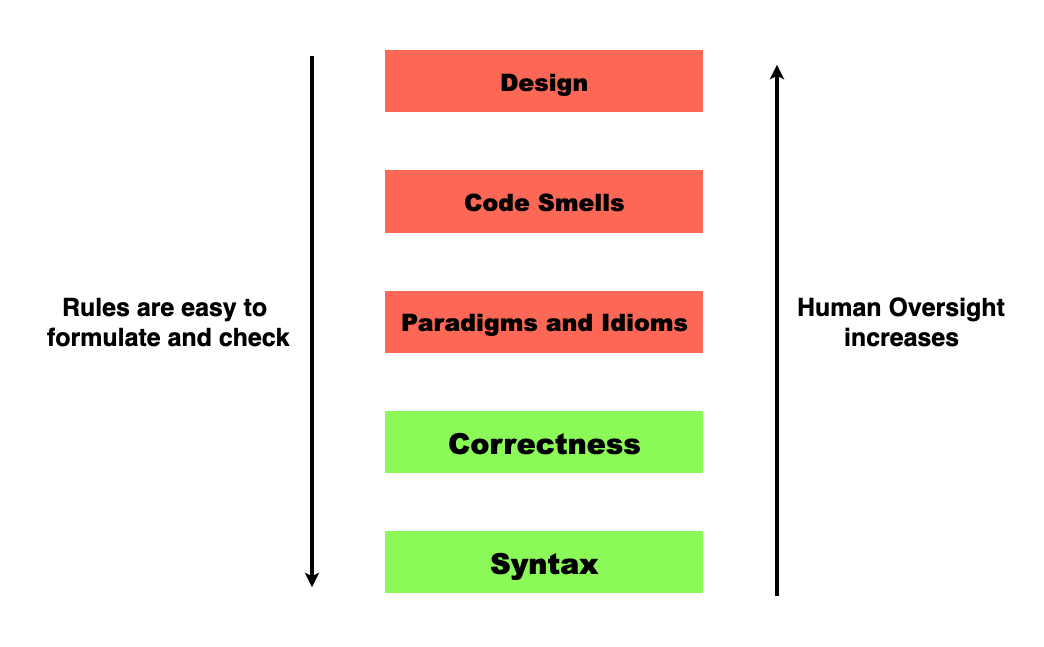
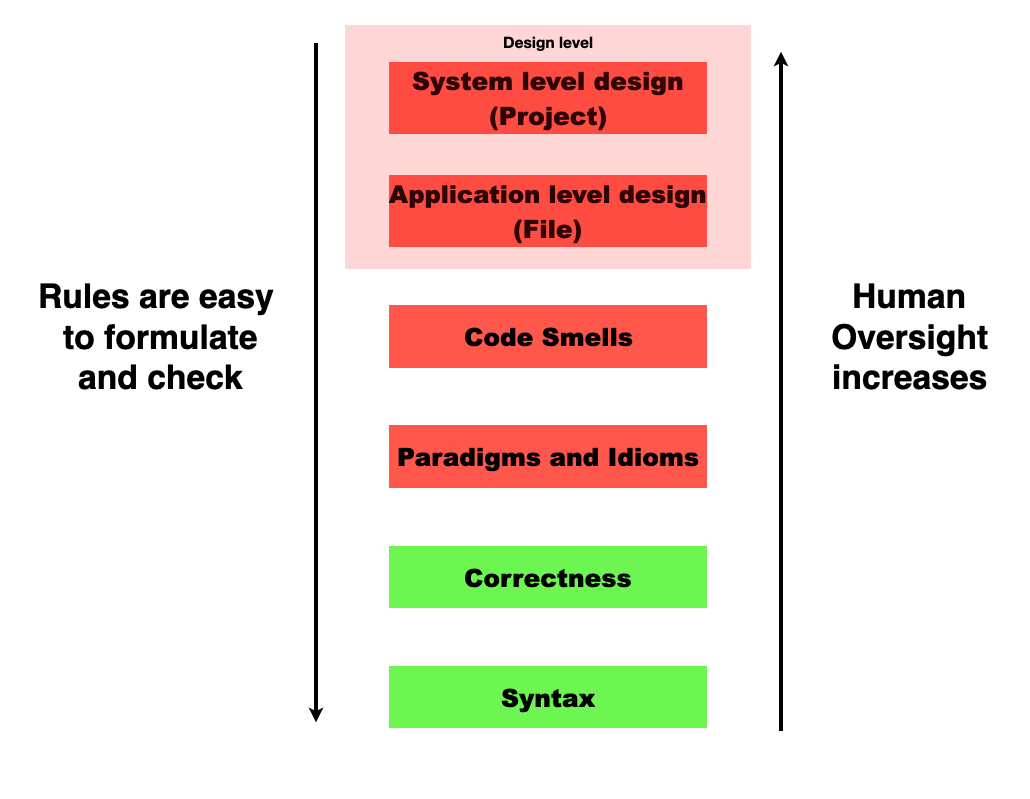
c4---v1.1---

Changed region(s): [[0.0311, 0.0309, 0.9631, 0.8964], [0.3417, 0.8037, 0.6835, 0.9274]]

diff --git a/chapters/4/chapter_framework.tex b/chapters/4/chapter_framework.tex
@@ -2,31 +2,37 @@
 \label{chapter:framework}
 
 \section{Introduction}
-In Chapters~\ref{chapter:idioms} and \ref{chapter:smells}, we identified that Copilot does not perform well in detecting and suggesting language idioms and best practices, 
-the scope of capability for \cct{} like Copilot is uncertain. In this chapter, we try to address \textbf{RQ-1} (What are the current boundaries of code completion tools) with a taxonomy of 5 software abstraction levels to help access the current capabilities of Copilot. 
+In Chapter~\ref{chapter:methodology}, we identified that Copilot does not perform well in detecting and suggesting language idioms and best practices.
+The scope of capability for \cct{} like Copilot is uncertain. 
+In this chapter, we try to create a metric for answering \textbf{RQ-1} (What are the current boundaries of code completion tools) with a taxonomy of six software abstraction levels to help access the current capabilities of \cct{} such as Copilot. 
 
 We explain each software abstraction level in the taxonomy and the capabilities required by \cct{} to satisfy the software abstraction level. 
-We try to delineate where current \cct{} are currently best able to perform, and where more complex software engineering tasks overwhelm them. We use a sorting routine as an example scenario to show how a \cct{} suggestion looks like at every level of abstraction in our taxonomy.
+We try to delineate where current \cct{} such as Copilot are currently best able to perform, and where more complex software engineering tasks overwhelm them. 
+Additionally, We use a sorting routine as an example scenario to show how a \cct{} code suggestion looks like at every level of abstraction in our taxonomy.
 
 \subsection{Motivation}
-To center our analysis on creating a software abstraction hierarchy, we leverage an analogous concept in the more developed (but still nascent) field of autonomous driving. 
-Koopman has adapted the SAE Autonomous Driving safety levels~\cite{sae} to those shown in figure~\ref{fig:koopman_pyramid}. 
-The pyramid concept is derived from that of Maslow~\cite{Maslow1943}, such that addressing aspects on the top of the pyramid first require the satisfaction of aspects below. 
-For example, before being able to think about system safety (such as what to do in morally ambiguous scenarios), the vehicle must first be able to navigate its environment reliably (``Basic Driving Functionality'').
-
-We think that a similar hierarchy exists in \AISE{}. Before worrying about software architecture issues, that is, satisfying system quality attributes such as performance, \AISE{} tools need to be able to exhibit ``basic programming functionality''. This basic functionality is where most research effort is currently concentrated, such as program synthesis, \cct{}, and automated bug repair.
+To center our analysis on creating a software abstraction hierarchy to create a metric for answering \textbf{RQ-1} (What are the current boundaries of code completion tools), 
+we leverage an analogous concept in the more developed (but still nascent) field of autonomous driving. 
+Koopman has adapted the SAE Autonomous Driving safety levels~\cite{sae} to seven levels of autonomous vehicle safety hierarchy of needs shown in figure~\ref{fig:koopman_pyramid}. 
 
 \begin{figure}[hbt!]
     \centering
-    \includegraphics[width=.8\linewidth]{Figures/koopman_pyramid.png}
+    \includegraphics[width=\linewidth]{Figures/koopman_pyramid.png}
     \caption{Koopman's Autonomous Vehicle Safety Hierarchy of Needs~\cite{koopman}. SOTIF = safety of the intended function.}
     \label{fig:koopman_pyramid}
 \end{figure}
+
+The pyramid concept is derived from that of Maslow~\cite{Maslow1943}, such that addressing aspects on the top of the pyramid first require the satisfaction of aspects below. 
+For example, before being able to think about system safety (such as what to do in morally ambiguous scenarios), the vehicle must first be able to navigate its environment reliably (``Basic Driving Functionality'').
+
+We think that a similar hierarchy exists in \AISE{}. Before worrying about software architecture issues, that is, satisfying system quality attributes such as performance and following idiomatic approaches, \AISE{} tools need to be able to exhibit ``basic programming functionality''. This basic functionality is where most research effort is currently concentrated, such as program synthesis, \cct{}, and automated bug repair.
+
 
 \input{chapters/4/taxonomy}
 \input{chapters/4/syntax}
 \input{chapters/4/correctness}
 \input{chapters/4/idioms}
 \input{chapters/4/smells}
-\input{chapters/4/design}
+\input{chapters/4/low_design}
+\input{chapters/4/high_design}
 \input{chapters/4/summary}

diff --git a/chapters/4/low_design.tex b/chapters/4/low_design.tex
@@ -1,0 +1,48 @@
+\subsection{Design level}
+Software design is the highest level of abstraction in our taxonomy. The goal of this level is to make \cct{} support the user in every software development process and suggest improvements.
+In order to simplify the taxonomy of overall design processes in software development, we divided it into two sub categories: Application level design and System level design. 
+\cct{} at Application level design requires more user involvement in making design choices at the file level. Whereas, in system level design, \cct{} are more autonomous and require minimal input from the user in making design choices.
+
+\subsubsection{Application level design}
+\label{low_design}
+Application level design is the first half of design level of software abstraction in our taxonomy.
+This level requires the suggested code to be free of all known vulnerabilities and include test cases and continuous integration methods when applicable.
+Code suggestions should also cover all the functional requirements of a given programming task.
+
+\cct{} at this level should be able to pick and suggest best applicable algorithm for a given coding scenario and be capable of following user specified coding style guidelines.
+For example, considering the task of sorting operation on a list of numbers. To satisfy this level of abstraction, \cct{} should suggest a syntactically correct list sorting code, using an algorithm which gives the best performance for that particular input scenario like suggesting quick sort algorithm~(avg time complexity = nlogn) instead of bubble sort algorithm~(avg time complexity = n\textsuperscript{2}).
+
+The goal of this level in the taxonomy is for a \cct{} to be able to suggest appropriate design choices at file level, considering the input from the user like coding style guidelines and help the user make design choices which satisfy all the functional requirements of the given programming task.
+
+The capabilities required by a \cct{} to satisfy this level of abstraction are as follows
+\begin{enumerate}
+    \item Picking and suggesting the best applicable algorithm for a given scenario.
+    \item Identify file level concerns in code files.
+    \item Code suggestions should be free from all recognised vulnerabilities and warn user if a vulnerability is found.
+    \item Code suggestions should cover all the functional requirements of the given programming task.
+    \item \cct{} should be able to suggest code with appropriate tests and Continuous Integration~(CI) when applicable.
+    \item Code suggestions should follow user specified coding style guidelines.
+    \item Satisfy requirements of all previous levels of abstractions.
+\end{enumerate}
+
+% \begin{tcolorbox}[title=Code smells level suggestion for sort routine,boxsep=.15mm]
+%     %https://tex.stackexchange.com/questions/337909/tcolorbox-tcbline-style
+% \textbf{Human Input:}
+% \begin{lstlisting}[language={Python}]
+% # sorting a list
+% arr = [2,4,1,3,7,5]
+% \end{lstlisting}
+% \tcbline
+% \textbf{\cct{} suggestion:}
+% \begin{lstlisting}[language={Python}, morekeywords={False, True}]
+% swapped = False
+% for i in range(len(arr)-1, 0, -1):
+% 	for j in range(n):
+% 		if arr[j] > arr[j+1]:
+% 		    swapped = True
+% 			arr[j], arr[j+1] = arr[j+1], arr[j]
+% 	if not swapped:
+% 	    break
+% print(arr)
+% \end{lstlisting}
+% \end{tcolorbox}

diff --git a/chapters/4/idioms.tex b/chapters/4/idioms.tex
@@ -1,21 +1,25 @@
 \subsection{Paradigms and Idioms}
-The paradigms and idioms is the mid level of software abstraction in our taxonomy. This level requires the suggested code satisfy all the previous levels of abstractions and use common paradigms and language idioms in its suggestions, these include common practices of performing a task in a programming language. 
-For example, considering the task of sorting operation on a list of numbers. To satisfy this level of abstraction, \cct{} should suggest a syntactically correct list sorting code, using idioms like best way to swap items in a list~(line 8 in fig~\ref{fig:idioms}) instead of using another temp variable~(shown in fig~\ref{fig:correctness}). 
+The paradigms and idioms is the third level of software abstraction in our taxonomy. 
+This level requires the suggested code satisfy all the previous levels of abstractions and use common paradigms and language idioms in its code suggestions, these include common practices of performing a programming task. 
 
-The main goal of this level in the taxonomy is for \cct{} to be able to detect and use the commonly used practices occur in public code in its code suggestions to a problem.
-Figure~\ref{fig:idioms} shows the example and the suggestions from \cct{} at this abstraction level.
+For example, considering the task of sorting operation on a list of numbers. 
+To satisfy this level of abstraction, \cct{} should suggest a syntactically correct list sorting code, using idiomatic ways in its code suggestions, like the Pythonic way of swapping items in a list~(line 5 in figure~\ref{fig:idioms}), As opposed to suggesting non-idiomatic approaches like creating another temporary variable to swap items in a list shown in correctness level~(figure~\ref{fig:correctness}).
+
+Figure~\ref{fig:idioms} shows the sorting example and the Python code suggestions from \cct{} at this abstraction level.
 
 \begin{figure}[hbt!]
     \centering
     \includegraphics[width=\linewidth]{Figures/idioms.png}
-    \caption{\cct{} paradigms and idioms level suggestions}
+    \caption{Code suggestion of \cct{} at paradigms and idioms level}
     \label{fig:idioms}
 \end{figure}
 
-The capabilities required by \cct{} to satisfy this level of abstraction are as follows:
+The goal of this software abstraction level in the taxonomy is for \cct{} to be able to detect and use commonly known idiomatic approaches and paradigms that occur in public code in its code suggestions for suggesting code to solve a programming task.
+
+The capabilities required by \cct{} to satisfy paradigms and idioms level of software abstraction are as follows:
 \begin{enumerate}
-    \item Identify common patterns like paradigms and language idioms in public code~(training data).
-    \item Use paradigms and language idioms in suggesting solutions for a problem.
+    \item Identify common patterns like paradigms and language idioms in public code repositories~(training data).
+    \item Use paradigms and language idioms in suggesting solutions for a programming task.
     \item Satisfy requirements of all the levels below paradigms and idioms in our taxonomy.
 \end{enumerate}
 

diff --git a/chapters/4/smells.tex b/chapters/4/smells.tex
@@ -1,23 +1,25 @@
 \subsection{Code Smells}
-The code smells level is the penultimate level of software abstractions in our taxonomy. 
-This level requires the suggested code satisfy all the previous levels of abstractions and avoid common code smells in its suggestions, these include common bad practices found in public code. This software abstraction level is also requires \cct{} to suggest the most optimized version of all its possible code suggestions.
+The code smells level is the next level of software abstractions after paradigms and idioms level in our taxonomy. 
+Code smells level requires the suggested code satisfy all the previous levels of abstractions and avoid common code smells in its suggestions, these include common bad practices found in public code. 
 
-For example, considering the task of performing a sorting operation on a list of numbers. To satisfy this level of abstraction, \cct{} should suggest a syntactically correct list sorting code, using common patterns like idioms but not including common code smells that occur in public code like resolving edge cases. 
+This software abstraction level is also requires \cct{} to suggest the most optimized version of all of the code suggestions \cct{} could generate for the programming task.
+
+For example, considering the task of sorting operation on a list of numbers. To satisfy this level of abstraction, \cct{} should suggest a syntactically correct list sorting code, using common patterns like idioms and not including common code smells that occur in public code like edge case scenarios. 
 Figure~\ref{fig:smells} shows the example and the suggestion from \cct{} at this abstraction level.
 
 \begin{figure}[hbt!]
     \centering
     \includegraphics[width=\linewidth]{Figures/smells.png}
-    \caption{\cct{} code smells level suggestions}
+    \caption{Code suggestion of \cct{} at code smells level}
     \label{fig:smells}
 \end{figure}
 
-The main goals of this level of software abstraction in our taxonomy is for \cct{} to be able to detect and avoid bad practices such as code smells that commonly occur in public code in its code suggestions to a problem and to suggest the most optimized version as its first suggestion to a programming task.
+The goal of this level of software abstraction in our taxonomy is for \cct{} to be able to detect and avoid bad practices such as code smells that commonly occur in public code in its code suggestions to a problem and to suggest the most optimized version as its first suggestion to solve a programming task.
 
 The capabilities required by \cct{} to satisfy this level of abstraction are as follows:
 \begin{enumerate}
     \item Identify common bad practices such as code smells that occur in public code~(training data).
-    \item Suggest solutions that does not have any code smells.
+    \item Suggest solutions that does not have any code smells and unresolved edge cases.
     \item Suggested code should the most optimized version of all the possible suggestions \cct{} could create for a given problem.
     \item Satisfy requirements of all the levels below code smells in our taxonomy.
 \end{enumerate}

diff --git a/chapters/4/correctness.tex b/chapters/4/correctness.tex
@@ -1,14 +1,15 @@
 \subsection{Correctness}
 \label{correctness}
-In this software abstraction level in our taxonomy, the suggested code by \cct{} should not only be syntactically correct but also solves the task. 
-This level does not require \cct{} to suggest the optimal solution for the task but to be able to suggest a solution to a task.
-For example, consider a task of perform a sorting operation on a list of numbers. To satisfy this level of abstraction, \cct{} should suggest a syntactically correct list sorting code, which is not required to to be the best algorithm to be the most efficient way.
-Figure~\ref{fig:correctness} shows the example and the suggestions from \cct{} at this abstraction level.
+Correctness is the second level of software abstraction in our taxonomy. In this level, the \cct{} should suggest code that is not only syntactically correct but also solves the programming task. 
+This level does not require \cct{} to suggest the optimal solution possible for the programming task but to be able to suggest a solution to the programming task.
+
+For example, consider the programming task of performing a sorting operation on a list of numbers. To satisfy this level of abstraction, \cct{} should suggest a syntactically correct list sorting code, which is not required to to be the most efficient way of sorting a list.
+Figure~\ref{fig:correctness} shows the list sorting example and the Python code suggestion from \cct{} at this abstraction level, which performs the sorting operation.
 
 \begin{figure}[hbt!]
     \centering
     \includegraphics[width=.9\linewidth]{Figures/correctness.png}
-    \caption{\cct{} correctness level suggestions}
+    \caption{Code suggestion of \cct{} at correctness level}
     \label{fig:correctness}
 \end{figure}
 
@@ -16,7 +17,8 @@ The goal of this software abstraction level in our taxonomy is for a \cct{} to b
 The capabilities required by \cct{} to satisfy this level of abstraction are as follows:
 
 \begin{enumerate}
-    \item Suggest a solution for a given programming task which may not be the optimal solution for that problem.
+    \item Suggest a solution for a given programming task which may not be the optimal solution for that programming task.
+    \item The solution suggested is not required to cover all the edge cases for that programming task.
     \item Satisfy requirements of all the levels below correctness in our taxonomy.
 \end{enumerate}
 

diff --git a/chapters/4/high_design.tex b/chapters/4/high_design.tex
@@ -1,0 +1,23 @@
+\subsubsection{System level design}
+\label{high_design}
+System level design is the second half of the design level in our taxonomy. This level is the highest abstraction level with highest human oversight and hardest to define rules.
+\cct{} at this level are capable of suggesting design decisions in project level like suggesting design patterns and architectural tactics with minimal input from the user.
+
+This level requires the suggested code suggest rational design practices in its code suggestions for a problem and satisfy all the previous levels of abstractions. Design practices are dependent on many factors like requirements and technical debt, \cct{} should be capable of considering all the relevant factors before suggesting a design practice and provide the reasoning for each choice to the user.
+
+The main goal of this level in the taxonomy is for a \cct{} to help the user in every part of software development process with minimal input from the user.
+
+The capabilities required by a \cct{} to satisfy this level of abstraction are as follows
+\begin{enumerate}
+    \item Identify system level concerns in code files.
+    \item Suggest design patterns and architectural tactics when prompted.
+    \item Code suggestions should cover all the non-functional requirements of the given project.
+    \item \cct{} should be able to identify coding style followed and adapt its code suggestions.
+    \item \cct{} should be able to make design decisions based on requirements and inform user about those decisions.
+    \item Satisfy requirements of all previous levels of abstractions.
+\end{enumerate}
+
+To make a \cct{} suggest design decisions is a very challenging task. 
+As software design is very subjective and Software design concerns are still challenging to comprehend. 
+This is because software design is one of the least concrete parts in the software development lifecycle, especially when compared to testing, implementation, and deployment~\cite{sedesign}. 
+Software design is typically carried out heuristically by drawing on the knowledge of the design team, the project context (such as architecturally significant needs), and a constantly evolving set of patterns and styles from the literature. We discuss more on this challenges in Chapter~\ref{chapter:discussion}.

diff --git a/chapters/4/taxonomy.tex b/chapters/4/taxonomy.tex
@@ -5,7 +5,7 @@ Software architecture analysis and design is the highest abstraction level.
 As we ascend the levels, just as with Koopman's pyramid in figure \ref{fig:koopman_pyramid}, 
 software challenges rely more on human input and become more difficult to automate (e.g., crafting design rules vs following syntax rules).
 
-Figure~\ref{fig:taxonomy} shows the taxonomy of autonomy levels for \cct{}.  The more abstract top levels depend on resolution of lower ones. As we move up the hierarchy, we require more human oversight of the AI; as we move down the hierarchy, rules for detecting problems are easier to formulate. Green levels are areas where \cct{} like Copilot works reasonably well, while red levels are challenging for Copilot as shown in chapters~\ref{chapter:idioms} and~\ref{chapter:smells}.
+Figure~\ref{fig:taxonomy} shows the taxonomy of autonomy levels for \cct{}. The more abstract top levels depend on resolution of lower ones. As we move up the hierarchy, we require more human oversight of the AI; as we move down the hierarchy, rules for detecting problems are easier to formulate. Green levels are areas where \cct{} like Copilot works reasonably well, while red levels are challenging for Copilot.
 
 \begin{figure}[hbt!]
     \centering
@@ -13,6 +13,10 @@ Figure~\ref{fig:taxonomy} shows the taxonomy of autonomy levels for \cct{}.  The
     \caption{Hierarchy of software abstractions.}
     \label{fig:taxonomy}
 \end{figure}
+
+Based on our tests with Copilot shown in chapter~\ref{chapter:methodology}, Copilot was able to generate syntactically correct code that solves the given programming task in the coding scenario~(shown in ~\repl{}).
+This functionality covers the syntax and the correctness level in our software abstraction hierarchy.
+As a result, Copilot stands at correctness level of our taxonomy. 
 
 The challenges further up the hierarchy are nonetheless more important for software quality attributes (QA)~\cite{Ernst2017} and for a well-engineered software system.
 For example, an automated solution suggested by \cct{} to the top level of the taxonomy would be able to follow heuristics to engineer a well designed software system, one which would be easy to modify and scale to sudden changes in use.

diff --git a/chapters/4/summary.tex b/chapters/4/summary.tex
@@ -1,5 +1,5 @@
 \section{Chapter Summary}
-In this chapter, we introduced the taxonomy of software abstraction hierarchy. We explain each software abstraction level in the taxonomy and the capabilities required by AI-supported code completion tools to satisfy the software abstraction level.
-We addressed \textbf{RQ-1} (What are the current boundaries of code completion tools) using the taxonomy and the results shown in chapters~\ref{chapter:idioms} and~\ref{chapter:smells}. We show that Copilot only satisfies syntax and correctness levels in our taxonomy. 
+In this chapter, we introduced the taxonomy of software abstraction hierarchy. We explain each software abstraction level in the taxonomy and the capabilities required by AI-supported code completion tools to satisfy each of the software abstraction level.
+We tried to create a metric for all \cct{} to help answer \textbf{RQ-1} (What are the current boundaries of code completion tools) using the taxonomy derived from the results shown in chapter~\ref{chapter:methodology}, which showed that Copilot only satisfies syntax and correctness levels in our taxonomy.
 
-In the next chapter~(chapter~\ref{chapter:discussion}), \textbf{RQ-2} (Given the current boundary, how far is it from suggesting design decisions?) with a discussion on the significant gap and level of complexities in creating a between code smells level and the design level in our taxonomy.
+In the next chapter~(chapter~\ref{chapter:discussion}), we try to address \textbf{RQ-2} (Given the current boundary, how far is it from suggesting design decisions?) with a discussion on the significant gap and level of complexities and challenges involved in creating \cct{} at design level compared to \cct{} at code smells level in our taxonomy.

diff --git a/chapters/2/summary.tex b/chapters/2/summary.tex
@@ -6,5 +6,5 @@ Furthermore, we discussed some of the related works on Copilot about its usage~\
 
 In the next chapters, we discuss the problems with using \cct{} like Copilot that are harder to fix and straight-forward corrections may not exist, like language idioms and code smells. 
 We try to address \textbf{RQ-1} (What are the current boundaries of code completion tools) using the methodology and present our results~(Chapter~\ref{chapter:methodology}).
-We then introduce a taxonomy of software abstraction hierarchy to help with finding the current boundaries of \cct{} like Copilot (Chapter~\ref{chapter:framework}). To address \textbf{RQ-2} (Given the current boundary, how far is it from suggesting design decisions?), we discuss the complex nature of design decisions, and the challenges with trying to use \cct{} to make design decisions.
+We then introduce a taxonomy of software abstraction hierarchy to help with finding the current boundaries of \cct{} like Copilot (Chapter~\ref{chapter:framework}). We address \textbf{RQ-2} (Given the current boundary, how far is it from suggesting design decisions?) with a discussion of the complex nature of design decisions, and the challenges with trying to use \cct{} to make design decisions.
 Finally, we discuss some of the practical implications, limitations of our findings and also provide some future directions to help further research in \cct{} (Chapter~\ref{chapter:discussion}).

diff --git a/chapters/4/syntax.tex b/chapters/4/syntax.tex
@@ -1,13 +1,15 @@
 \subsection{Syntax}
 \label{syntax}
 The syntax level is the lowest abstraction level in our taxonomy. This level includes the most basic programming functionality like syntax and code compilations. This level does not require the \cct{} suggested code to successfully perform the task but to suggest code without any obvious errors like syntax errors.
-For example, consider a task of perform a sorting operation on a list of numbers. To satisfy this level of abstraction, \cct{} should suggest code that is syntactically correct without any compilation errors and the code is not required to perform the sorting operation correctly. 
-Figure~\ref{fig:syntax} shows the example and syntax suggestions from \cct{} at this abstraction level.
+
+For example, consider a programming task of performing a sorting operation on a list of numbers. 
+To satisfy this level of abstraction, \cct{} should suggest code that is syntactically correct without any compilation errors and the code is not required to perform the sorting operation correctly. 
+Figure~\ref{fig:syntax} shows the sorting example and Python syntax suggestions from \cct{} at this abstraction level.
 
 \begin{figure}[hbt!]
     \centering
     \includegraphics[width=\linewidth]{Figures/syntax.png}
-    \caption{\cct{} syntax level suggestions}
+    \caption{code suggestion of \cct{} at syntax level}
     \label{fig:syntax}
 \end{figure}
 

diff --git a/chapters/2/copilot.tex b/chapters/2/copilot.tex
@@ -29,7 +29,7 @@ Although a Copilot suggestion can be triggered by adding a comment in natural la
 Vaithilingam et al.~\cite{Vaithilingam2022} conducted an exploratory study of how developers use Copilot, finding that Copilot did not solve tasks more quickly, but did save time in searching for solutions. 
 More importantly, Copilot seemed to solve the writer's block problem of not knowing how to get started. This notion of seeding an initial, if incorrect, solution is often how design proceeds in software. 
 
-Recent work shows initial investigations on how large language models for code can add architecture tactics by using program synthesis~\cite{Shokri2021} and structure learning~\cite{Karmakar2021}.
+Recent work shows initial investigations on how large language models for code can add architecture tactics by using program synthesis~\cite{Shokri2021, jigsaw} and structure learning~\cite{Karmakar2021}.
 This thesis complements these earlier approaches by focusing on moving beyond code completion, where most research effort is currently concentrated.
 In order to provide deeper insights into the overall effectiveness of the instrument, it is crucial to evaluate the quality of Copilot's suggestions and understand its limitations.
 

diff --git a/mainthesisUVIC.tex b/mainthesisUVIC.tex
@@ -4,7 +4,7 @@
 
 %% rohith commands
 \newcommand{\AIDE}{AI-supported programming}%{AI-driven development}
-\newcommand{\AISE}{AI-supported software engineering}%{AI-driven software engineering}
+\newcommand{\AISE}{AI-supported software development}%{AI-driven software engineering}
 \newcommand{\cct}{AI-supported code completion tools}
 \newcommand{\repl}{replication package at \url{todo}}
 
